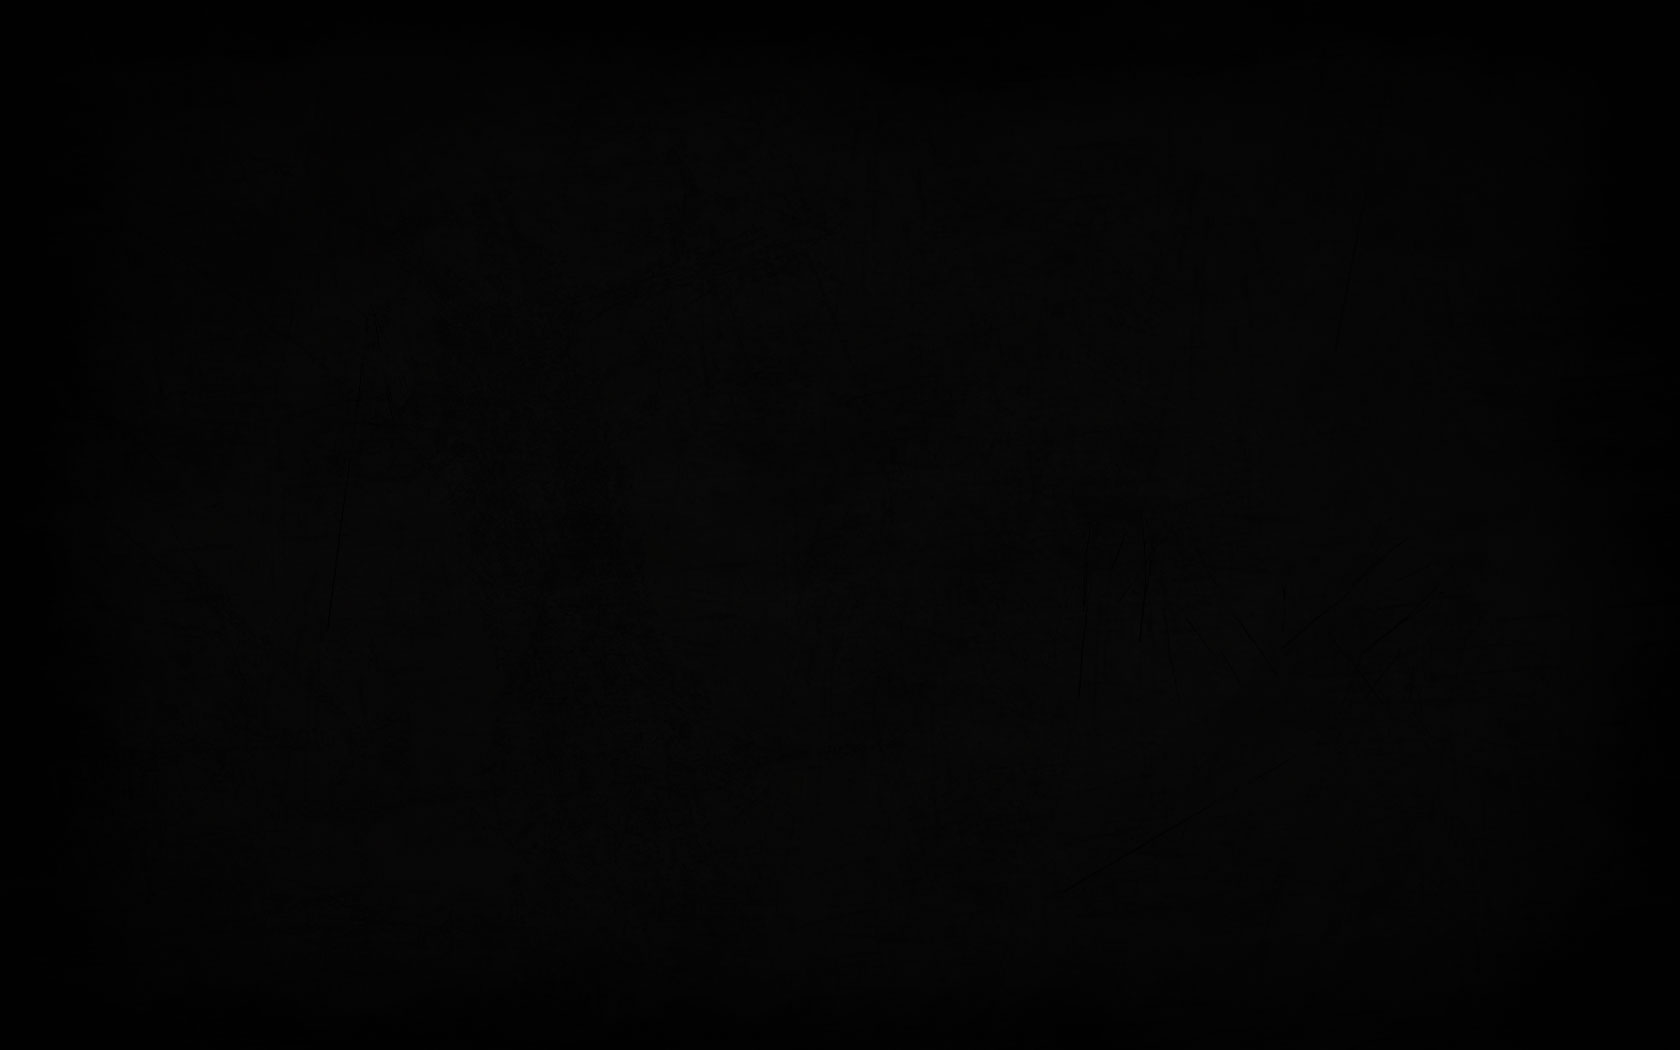
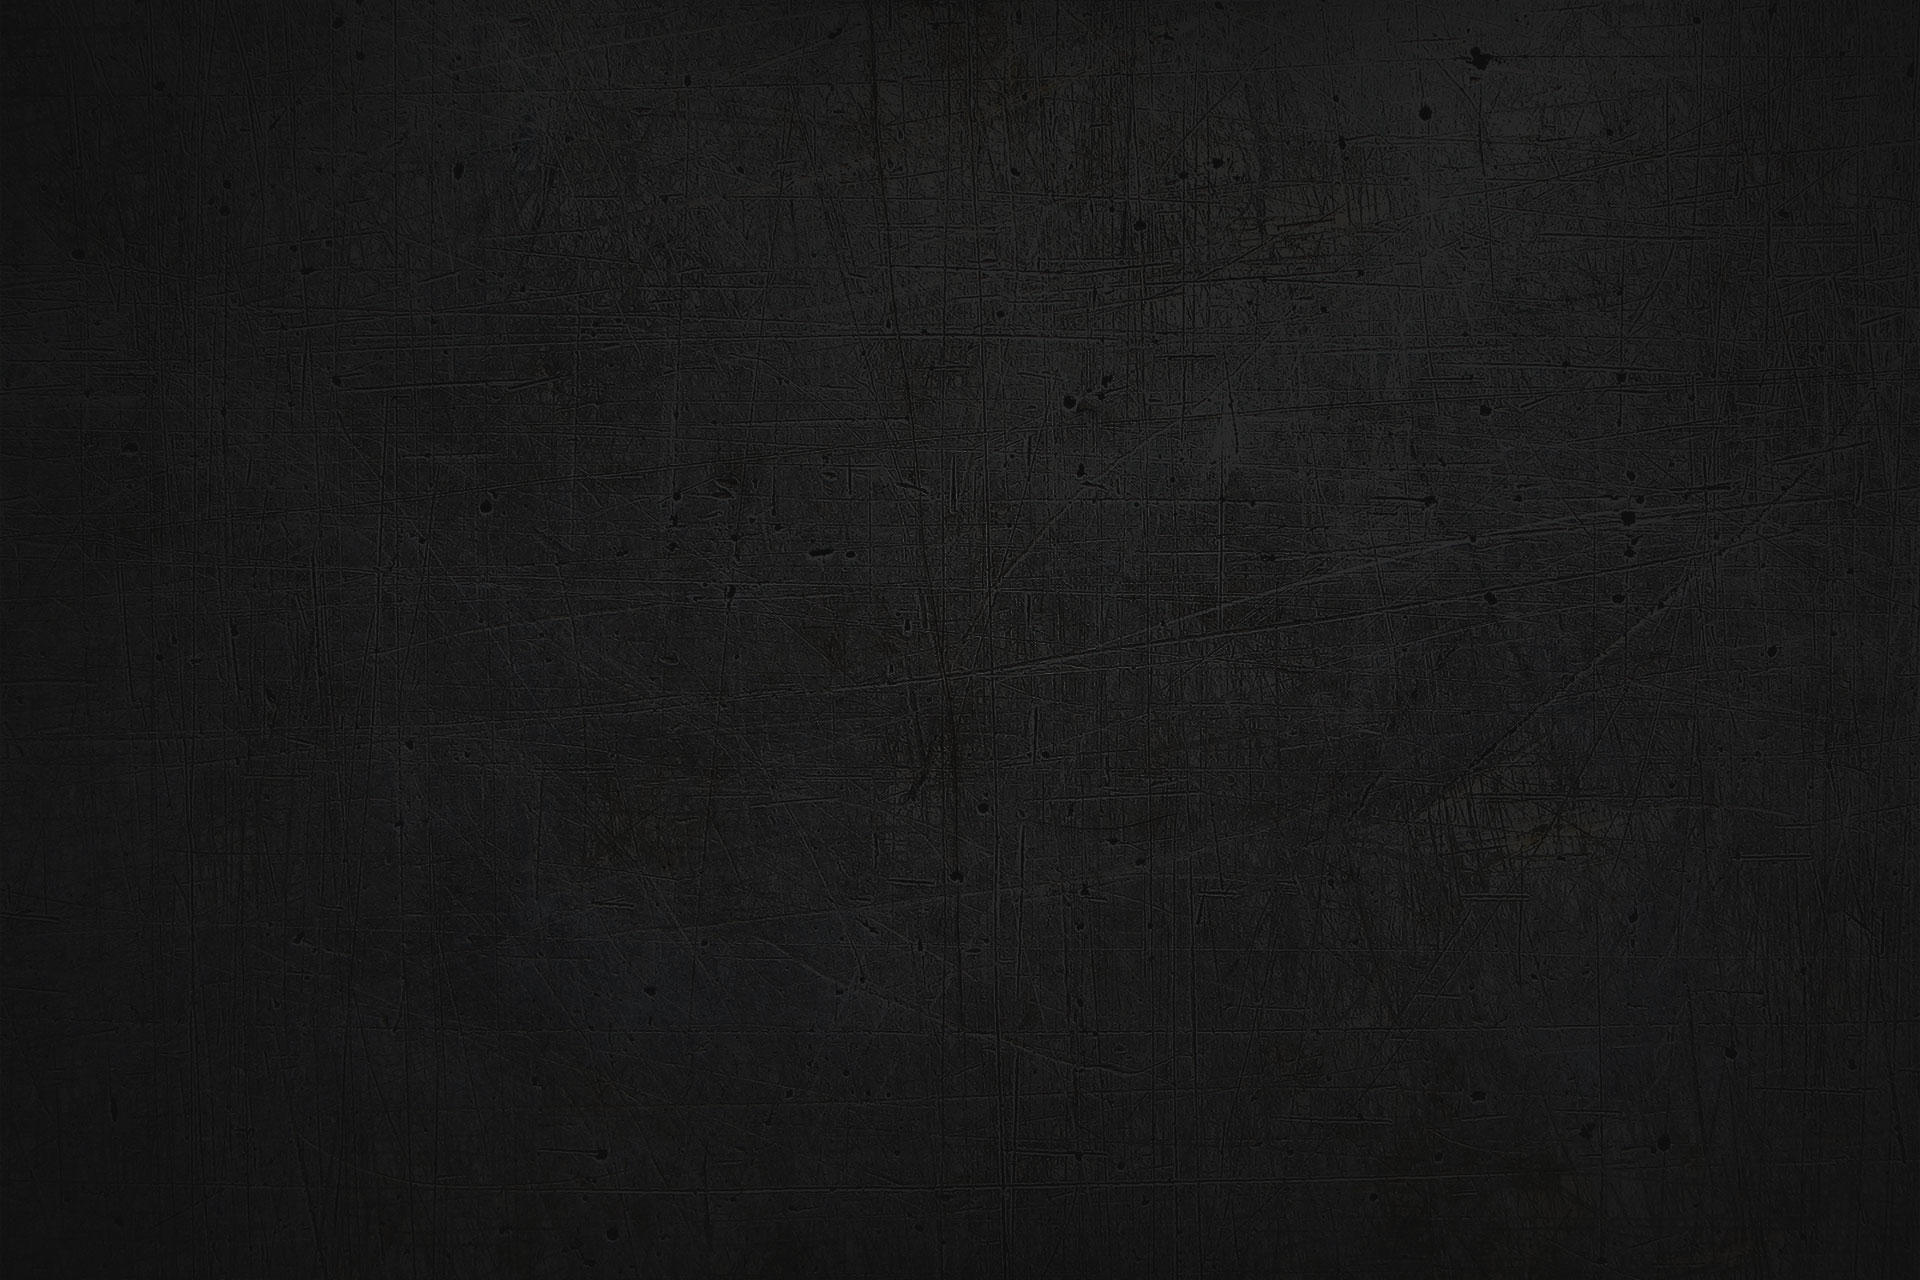
background change

diff --git a/src/css/main.css b/src/css/main.css
@@ -108,8 +108,7 @@ textarea {
 
 }
 body {
-    background: #000 url(../img/background.jpg) no-repeat 0 0;
-    background-size: cover;
+    background: #222 fixed url(../img/background.jpg) no-repeat 0 0 / cover;
     color: #fff;
     padding: 3px;
 }
